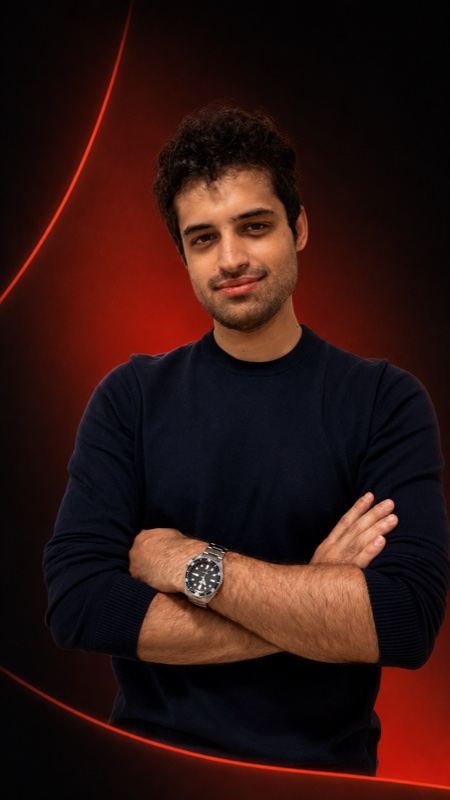
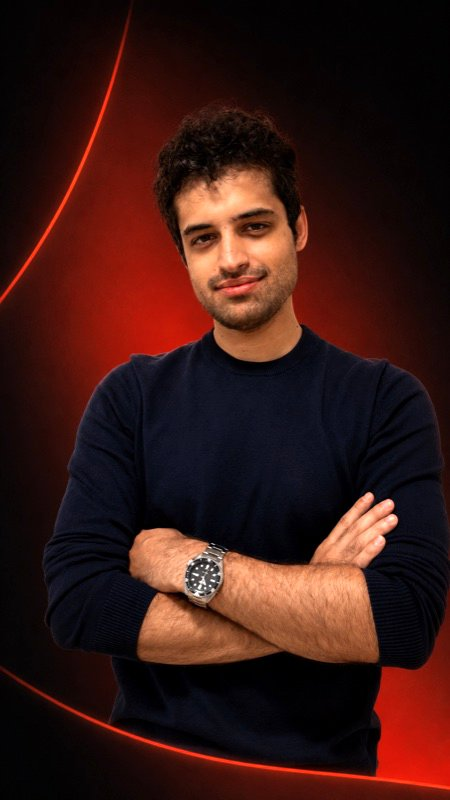
fix: testimonios sin auto-scroll + flechas mas visibles + brillo Carlos +18%
- JS: marquee no se mueve solo, solo con flechas (easing suave 0.18)
- Flechas: 64x64 desktop, 48x48 mobile, border 2px blanco, glow, hover naranja Executive
- Iconos SVG mas grandes (24px) con drop-shadow para legibilidad
- Carlos.jpg: brillo +18%, contraste +3% (sin pasarse)

diff --git a/assets/redesign.css b/assets/redesign.css
@@ -12982,3 +12982,98 @@ html body section.section-paper#resultados .vid-video:has(video) .vid-placeholde
 }
 
 /* END · PATCH 43 fotos profes + videos testimonios */
+
+
+/* ═══════════════════════════════════════════════════════════════════════
+   PATCH 44 · Testimonios · flechas BIEN VISIBLES + sin auto-scroll
+   El marquee ya NO se mueve solo (controlado en JS).
+   Solo necesitamos que las flechas se vean y se usen claramente.
+   ═══════════════════════════════════════════════════════════════════════ */
+
+/* Flechas · MÁS GRANDES, MÁS BLANCAS, MÁS VISIBLES */
+html body section.section-paper#resultados .vid-carousel .vid-btn,
+html body section.section-paper#resultados .vid-carousel .vid-prev,
+html body section.section-paper#resultados .vid-carousel .vid-next {
+  width: 64px !important;
+  height: 64px !important;
+  border: 2px solid #ffffff !important;
+  background: rgba(255,255,255,0.10) !important;
+  backdrop-filter: blur(16px) !important;
+  -webkit-backdrop-filter: blur(16px) !important;
+  color: #ffffff !important;
+  box-shadow:
+    0 12px 32px -8px rgba(0,0,0,0.6),
+    0 0 0 1px rgba(255,255,255,0.15) inset,
+    0 0 40px -10px rgba(255,255,255,0.2) !important;
+  cursor: pointer !important;
+  transition: background .25s ease, border-color .25s ease, transform .25s ease, box-shadow .25s ease !important;
+  z-index: 25 !important;
+}
+
+/* Iconos · más grandes y bien blancos */
+html body section.section-paper#resultados .vid-carousel .vid-btn svg {
+  width: 24px !important;
+  height: 24px !important;
+  stroke: #ffffff !important;
+  stroke-width: 2.4 !important;
+  fill: none !important;
+  filter: drop-shadow(0 2px 8px rgba(0,0,0,0.4)) !important;
+}
+
+/* Hover · naranja Executive */
+html body section.section-paper#resultados .vid-carousel .vid-btn:hover {
+  background: #EC4429 !important;
+  border-color: #EC4429 !important;
+  color: #ffffff !important;
+  box-shadow:
+    0 16px 40px -8px rgba(236,68,41,0.55),
+    0 0 0 1px rgba(255,255,255,0.2) inset,
+    0 0 60px -10px rgba(236,68,41,0.5) !important;
+}
+html body section.section-paper#resultados .vid-carousel .vid-prev:hover {
+  transform: translateY(-50%) scale(1.08) translateX(-2px) !important;
+}
+html body section.section-paper#resultados .vid-carousel .vid-next:hover {
+  transform: translateY(-50%) scale(1.08) translateX(2px) !important;
+}
+
+/* Active (click) · feedback claro */
+html body section.section-paper#resultados .vid-carousel .vid-btn:active {
+  background: #c93521 !important;
+  transform: translateY(-50%) scale(0.96) !important;
+}
+
+/* Posición · más separadas para no tapar contenido */
+html body section.section-paper#resultados .vid-carousel .vid-prev {
+  left: clamp(8px, 2vw, 24px) !important;
+}
+html body section.section-paper#resultados .vid-carousel .vid-next {
+  right: clamp(8px, 2vw, 24px) !important;
+}
+
+/* Mobile · ajustar tamaño */
+@media (max-width: 720px) {
+  html body section.section-paper#resultados .vid-carousel .vid-btn,
+  html body section.section-paper#resultados .vid-carousel .vid-prev,
+  html body section.section-paper#resultados .vid-carousel .vid-next {
+    width: 48px !important;
+    height: 48px !important;
+    border-width: 1.5px !important;
+  }
+  html body section.section-paper#resultados .vid-carousel .vid-btn svg {
+    width: 18px !important;
+    height: 18px !important;
+  }
+}
+
+/* Ajustar también el padding del carousel para hueco de flechas */
+html body section.section-paper#resultados .vid-carousel {
+  padding: 0 80px !important;
+}
+@media (max-width: 720px) {
+  html body section.section-paper#resultados .vid-carousel {
+    padding: 0 64px !important;
+  }
+}
+
+/* END · PATCH 44 flechas testimonios visibles + sin auto-scroll */

diff --git a/index.html b/index.html
@@ -2125,26 +2125,25 @@ Aceptar todo
     if (prev) carousel.appendChild(prev);
     if (next) carousel.appendChild(next);
     if (controls) controls.remove();
-    // Marquee con rAF
-    let scrollPos = 0;
-    const speed = 0.5; // px per frame
-    let manualOffset = 0;
-    let manualTarget = 0;
-    function step() {
-      scrollPos += speed;
-      // Aplicar offset manual con easing
-      if (manualOffset !== manualTarget) {
-        manualOffset += (manualTarget - manualOffset) * 0.12;
-        if (Math.abs(manualTarget - manualOffset) < 0.5) manualOffset = manualTarget;
+    // Carousel estatico · solo se mueve con flechas (NO auto-scroll)
+    let currentOffset = 0;
+    let targetOffset = 0;
+    function applyTransform() {
+      // Easing suave hacia targetOffset
+      const diff = targetOffset - currentOffset;
+      if (Math.abs(diff) > 0.5) {
+        currentOffset += diff * 0.18;
+      } else {
+        currentOffset = targetOffset;
       }
-      let total = track.scrollWidth / 3; // un tercio porque clonamos x3
-      let pos = (scrollPos + manualOffset) % total;
+      // Loop infinito (modulo del tercio porque clonamos x3)
+      const total = track.scrollWidth / 3;
+      let pos = currentOffset % total;
       if (pos < 0) pos += total;
-      // setProperty con priority important para vencer cualquier !important del CSS
       track.style.setProperty('transform', 'translateX(' + (-pos) + 'px)', 'important');
-      requestAnimationFrame(step);
+      requestAnimationFrame(applyTransform);
     }
-    requestAnimationFrame(step);
+    requestAnimationFrame(applyTransform);
     // Calcular ancho de una card (incluido gap)
     function cardStep() {
       const first = track.querySelector('.vid-slide');
@@ -2153,8 +2152,8 @@ Aceptar todo
       const gap = parseFloat(style.columnGap || style.gap || '24') || 24;
       return first.getBoundingClientRect().width + gap;
     }
-    if (prev) prev.addEventListener('click', () => { manualTarget -= cardStep(); });
-    if (next) next.addEventListener('click', () => { manualTarget += cardStep(); });
+    if (prev) prev.addEventListener('click', () => { targetOffset -= cardStep(); });
+    if (next) next.addEventListener('click', () => { targetOffset += cardStep(); });
   }, 50);
 })();
 </script>